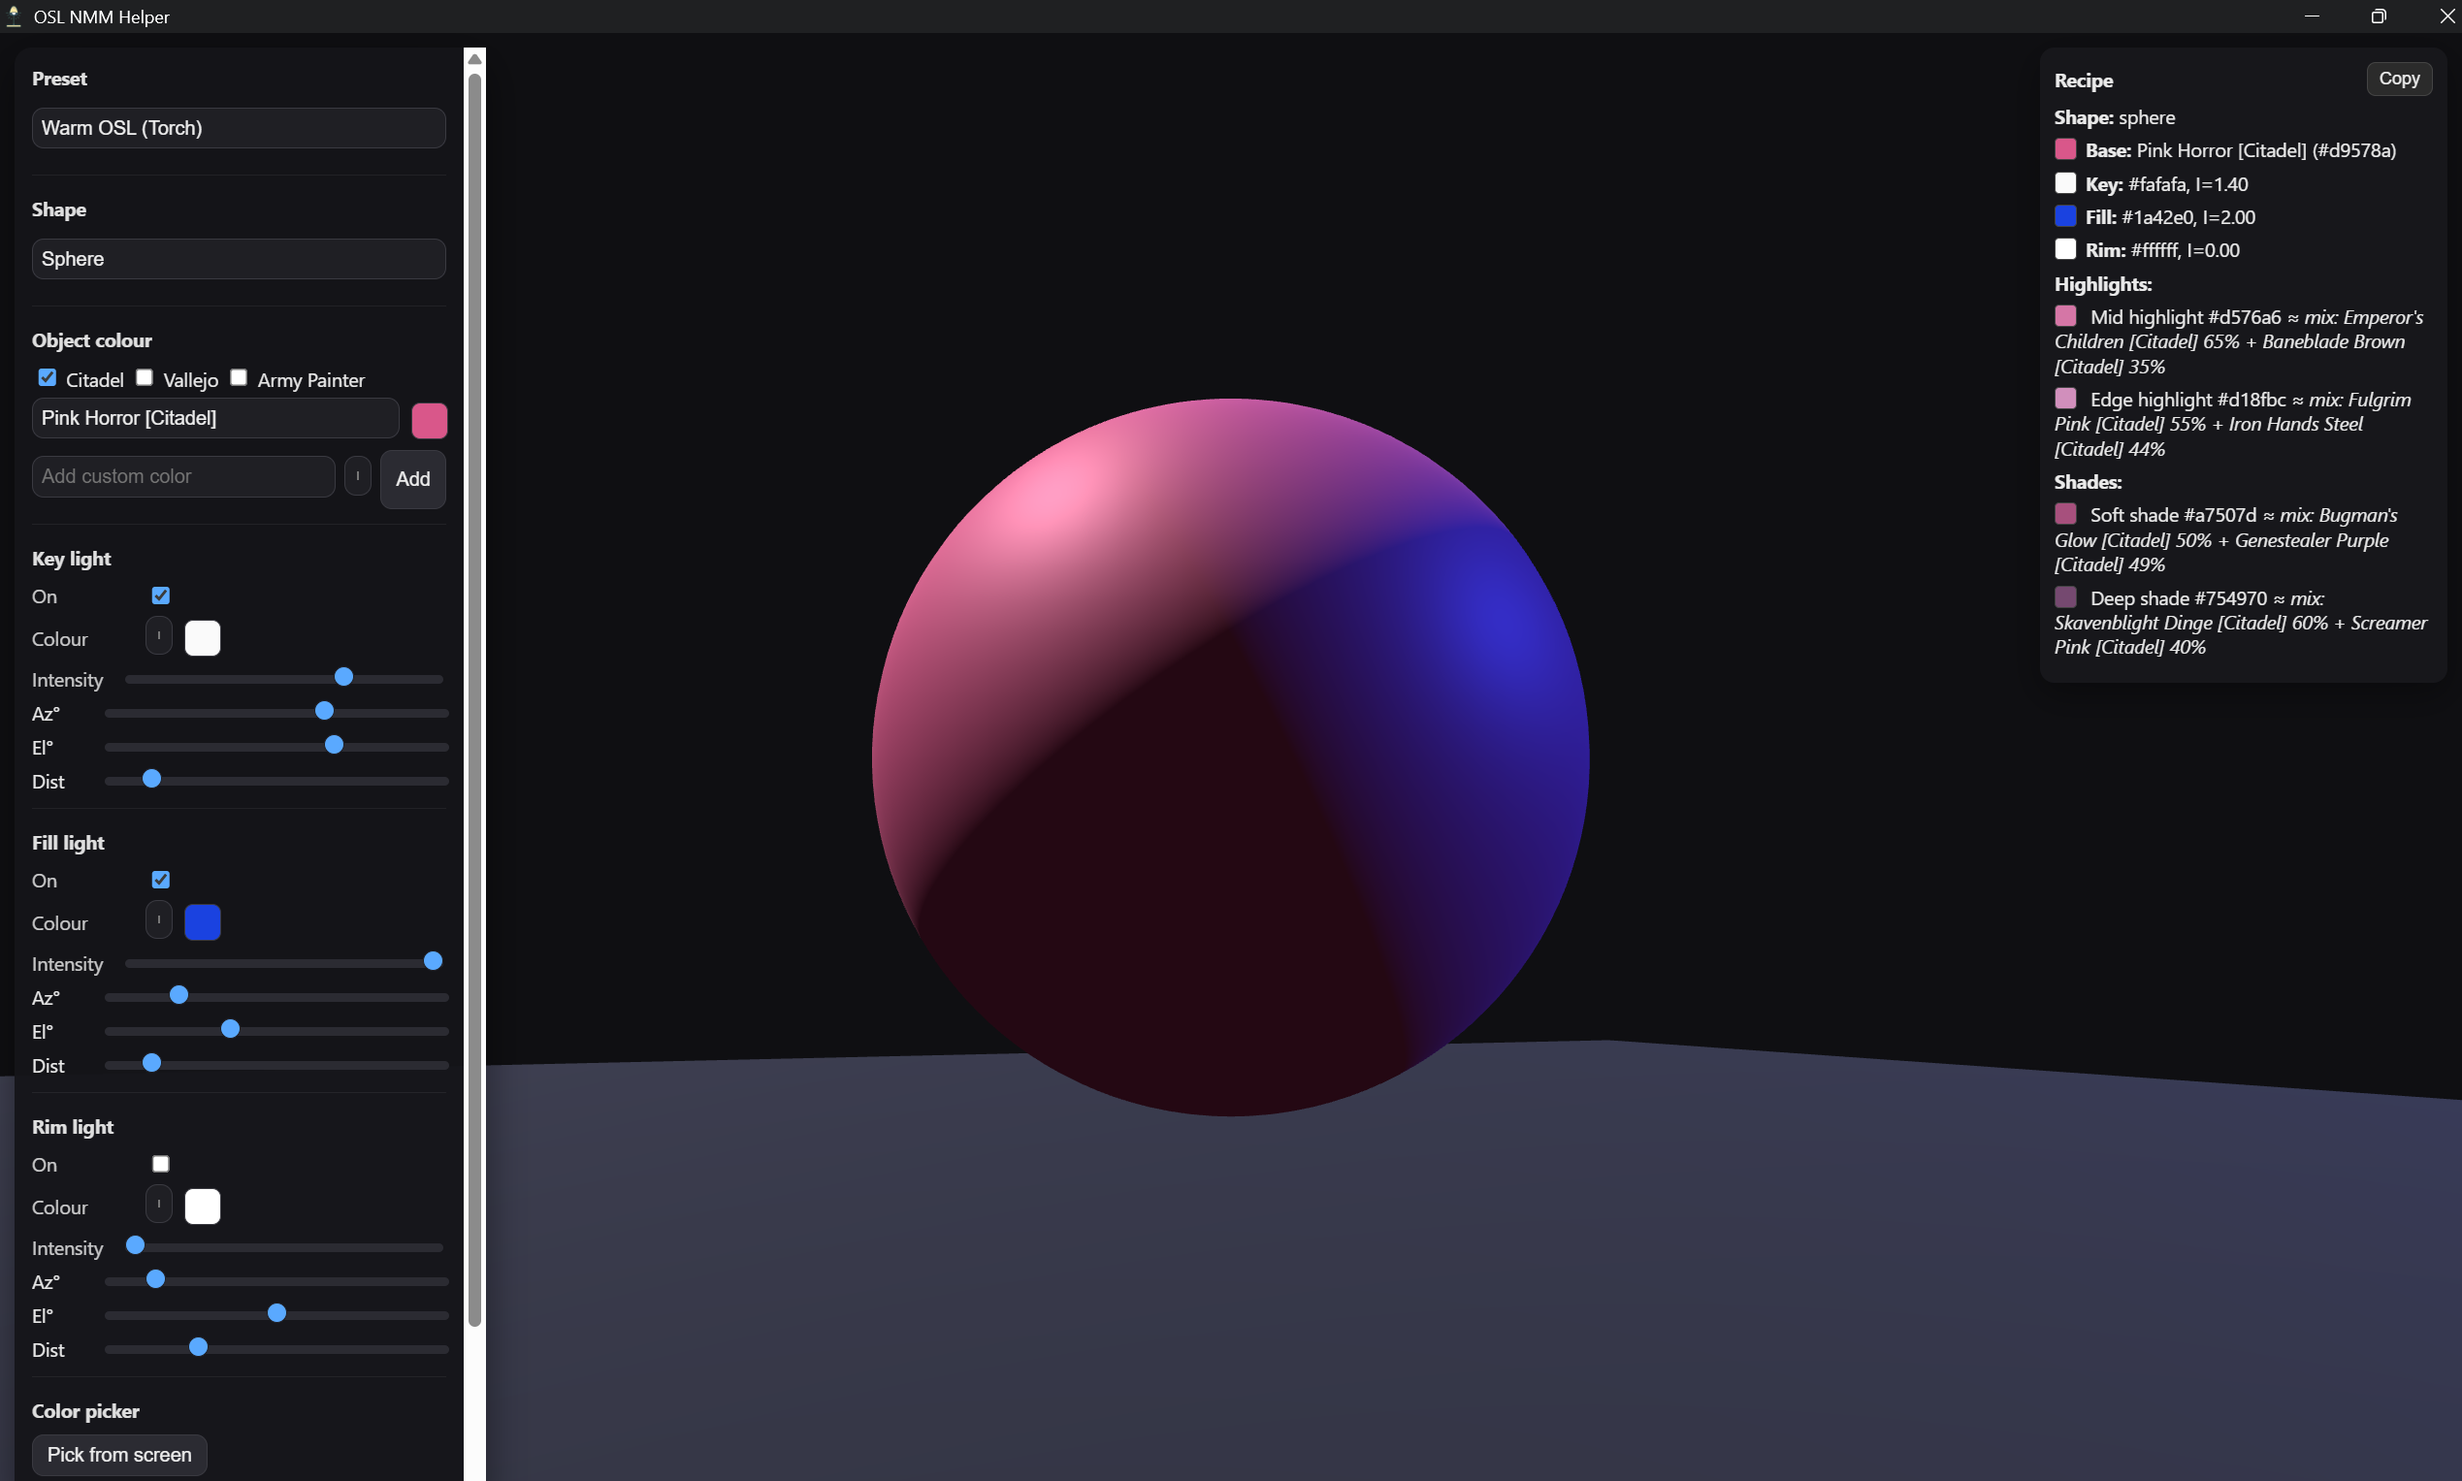
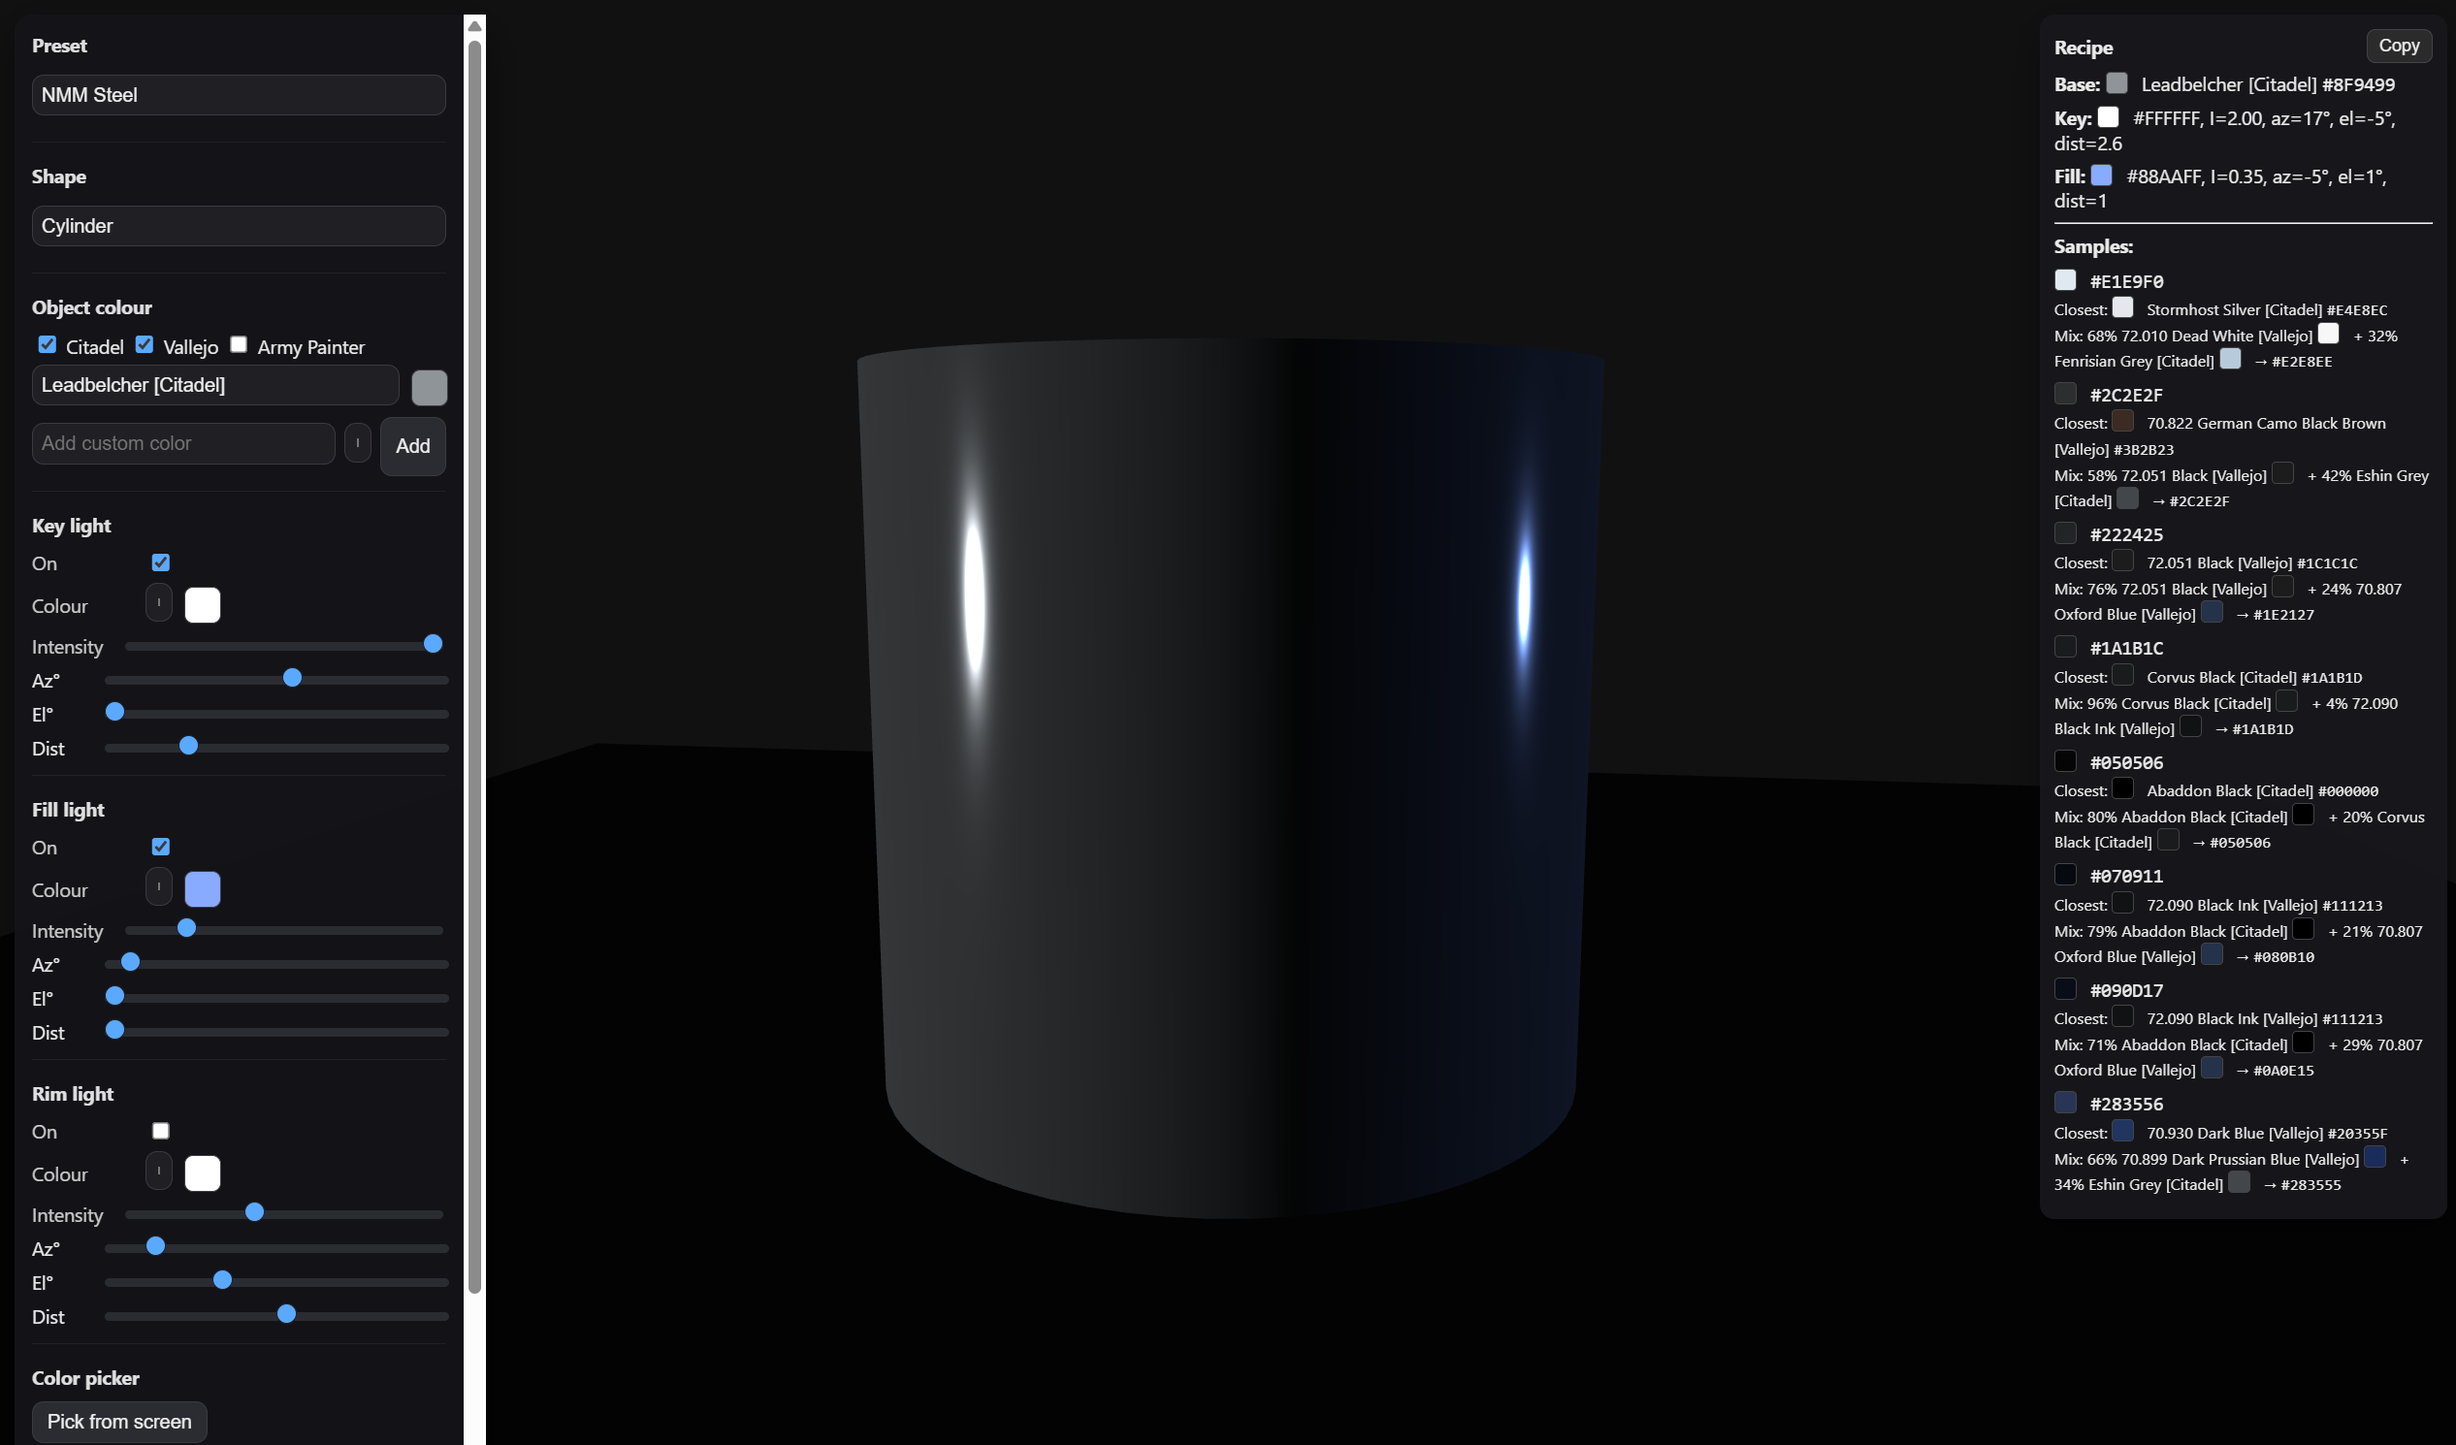
update readme

diff --git a/README.md b/README.md
@@ -1,3 +1,19 @@
+## 📥 Downloads  
+
+Get the latest release for your system:  
+
+- 🪟 **Windows (.msi)** → [Download](https://github.com/mat2m10/osl_nmm_helper/releases/latest/download/app-windows-x64.msi)  
+- 🍎 **macOS (.dmg)** → [Download](https://github.com/mat2m10/osl_nmm_helper/releases/latest/download/app-macos-x64.dmg)  
+- 🐧 **Linux (.AppImage)** → [Download](https://github.com/mat2m10/osl_nmm_helper/releases/latest/download/app-linux-x86_64.AppImage)  
+
+---
+
+## ☕ Support  
+
+If this helps your hobby, fuel mine:  
+👉 [Buy me a coffee](https://buymeacoffee.com/mat2m10)  
+
+---
 # 🌌 OSL & NMM Helper  
 
 *Turn your desk lamp into a sun, and your paints into magic.*  
@@ -22,28 +38,11 @@ Think of it as your digital lighting rig and recipe book, built for hobbyists wh
 
 ## 👀 See it in action  
 
-| Steel reflections (NMM) | Torchlight glow (OSL) | Multi-colored setup |
-|--------------------------|-----------------------|---------------------|
-| ![NMM Steel](sample1.png) | ![Warm OSL](sample2.png) | ![Multi-light](sample3.png) |
+| Blue Ultramarine Steel (NMM) | Steel Reflections (NMM) | Torchlight Glow (OSL) | Multi-colored Setup |
+|-------------------------------|--------------------------|------------------------|----------------------|
+| ![Blue Ultramarine Steel](sample1.png) | ![Steel NMM](sample2.png) | ![Warm OSL](sample4.png) | ![Multi-light](sample3.png) |
 
----
 
-## 📥 Downloads  
-
-Get the latest release for your system:  
-
-- 🪟 **Windows (.msi)** → [Download](https://github.com/mat2m10/osl_nmm_helper/releases/latest/download/app-windows-x64.msi)  
-- 🍎 **macOS (.dmg)** → [Download](https://github.com/mat2m10/osl_nmm_helper/releases/latest/download/app-macos-x64.dmg)  
-- 🐧 **Linux (.AppImage)** → [Download](https://github.com/mat2m10/osl_nmm_helper/releases/latest/download/app-linux-x86_64.AppImage)  
-
----
-
-## ☕ Support  
-
-If this helps your hobby, fuel mine:  
-👉 [Buy me a coffee](https://buymeacoffee.com/mat2m10)  
-
----
 
 ## ⚙ Tech Notes  
 
